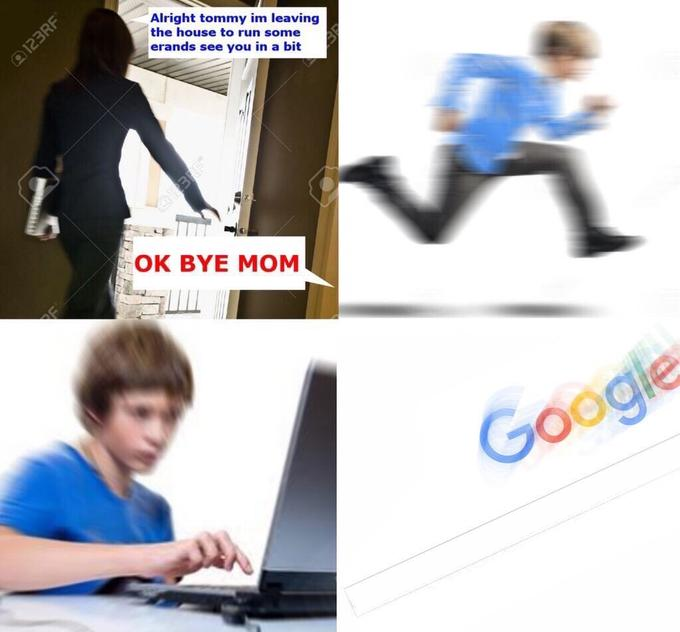
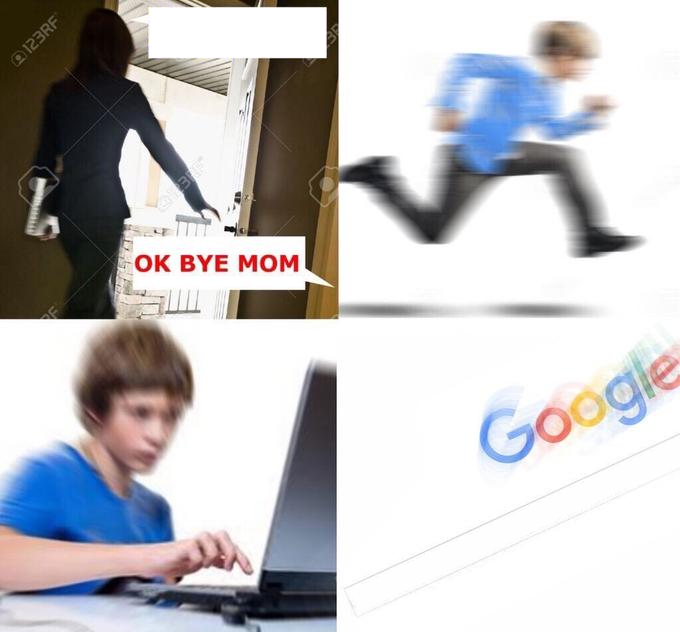
cleanup

Changed region(s): [[0.2162, 0.0, 0.4632, 0.0902]]

diff --git a/assets/byemom.js b/assets/byemom.js
@@ -1,4 +1,4 @@
-const tryParse = require('./utils.js').tryParse
+const { getBuffer, tryParse } = require('./utils.js')
 const Jimp = require('jimp')
 
 exports.run = (URL) => {
@@ -6,29 +6,29 @@ exports.run = (URL) => {
     URL = tryParse(URL)
     if (!URL || URL.length < 2) { return reject(new Error('data-src must be an array of 2 strings')) }
 
+    // const username = 'oof'
     const text = URL[1]
     const avatarPromise = Jimp.read(URL[0])
     const momPromise = Jimp.read('./resources/byemom/mom.png')
     const blankPromise = Jimp.read('./resources/byemom/blank.png')
+    const fontPromise = Jimp.loadFont(Jimp.FONT_SANS_16_BLACK)
+    // const smolFontPromise = Jimp.loadFont(Jimp.FONT_SANS_16_BLACK)
 
-    Promise.all([avatarPromise, momPromise, blankPromise]).then(async (promises) => {
-      let [avatar, mom, blank] = promises
+    Promise.all([avatarPromise, momPromise, blankPromise, fontPromise]).then(async (promises) => {
+      let [avatar, mom, blank, font] = promises
       const avatar2 = avatar.clone()
       avatar.resize(70, 70)
       avatar2.resize(125, 125)
       mom.composite(avatar, 530, 15)
       mom.composite(avatar2, 70, 340)
-
-      let font = await Jimp.loadFont(Jimp.FONT_SANS_16_BLACK)
       blank.resize(275, 200)
-      let search = await blank.print(font, 0, 0, text, 275)
+      // mom.print(smolFont, 150, 8, `Alright ${username} im leaving the house to run some errands see you in a bit`, 175)
+
+      const search = blank.print(font, 0, 0, text, 275)
       search.rotate(335)
 
       mom.composite(search, 390, 460)
-      mom.getBuffer(Jimp.MIME_PNG, async (err, buffer) => {
-        if (err) { return console.error(err.stack) }
-        resolve(buffer)
-      })
+      getBuffer(mom, resolve, reject)
     }).catch(reject)
   })
 }

diff --git a/assets/ohno.js b/assets/ohno.js
@@ -1,30 +1,22 @@
+const { getBuffer } = require('./utils.js')
 const Jimp = require('jimp')
+
 exports.run = (URL) => {
   return new Promise(async (resolve, reject) => {
-    let args = URL
-    let fontSetting
-    if (args.join(' ').length < 38) {
-      fontSetting = Jimp.FONT_SANS_32_BLACK
-    } else {
-      fontSetting = Jimp.FONT_SANS_16_BLACK
-    }
+    const text = URL.join(' ')
+    const fontSetting = text.length < 38 ? Jimp.FONT_SANS_32_BLACK : Jimp.FONT_SANS_16_BLACK
 
-    const text = args
     const momPromise = Jimp.read('./resources/ohno/ohno.png')
     const blankPromise = Jimp.read('./resources/ohno/Empty.png')
+    const fontPromise = Jimp.loadFont(fontSetting)
 
-    Promise.all([momPromise, blankPromise]).then(async (promises) => {
-      const [mom, blank] = promises
+    Promise.all([momPromise, blankPromise, fontPromise]).then(async (promises) => {
+      const [mom, blank, font] = promises
       mom.resize(500, 500)
-      let font = await Jimp.loadFont(fontSetting)
       blank.resize(250, 250)
       const search = blank.print(font, 0, 0, text, 260)
-
       mom.composite(search, 262, 8)
-      mom.getBuffer(Jimp.MIME_PNG, async (err, buffer) => {
-        if (err) { return reject(err.stack) }
-        resolve(buffer)
-      })
+      getBuffer(mom, resolve, reject)
     }).catch(reject)
   })
 }

diff --git a/assets/batslap.js b/assets/batslap.js
@@ -1,4 +1,4 @@
-const tryParse = require('./utils.js').tryParse
+const { getBuffer, tryParse } = require('./utils.js')
 const Jimp = require('jimp')
 
 exports.run = async (URL) => {
@@ -6,25 +6,17 @@ exports.run = async (URL) => {
     URL = tryParse(URL)
     if (!URL || URL.length < 2) { return reject(new Error('data-src must be an array of 2 strings (URLs)')) }
 
-    const [avatar, author] = await Promise.all([
+    const [avatar, author, batman] = await Promise.all([
       Jimp.read(URL[0]),
-      Jimp.read(URL[1])
+      Jimp.read(URL[1]),
+      Jimp.read('./resources/batslap/batman.jpg')
     ]).catch(reject)
-
-    const bat = await Jimp.read('./resources/batslap/batman.jpg').catch(err => {
-      console.error(err.stack)
-    })
 
     avatar.resize(150, 150)
     author.resize(130, 130)
-    bat.resize(670, 400)
-    bat.composite(avatar, 390, 215)
-    bat.composite(author, 240, 75)
-    bat.getBuffer(Jimp.MIME_PNG, async (err, buffer) => {
-      if (err) {
-        return console.error(err.stack)
-      }
-      resolve(buffer)
-    })
+    batman.resize(670, 400)
+    batman.composite(avatar, 390, 215)
+    batman.composite(author, 240, 75)
+    getBuffer(batman, resolve, reject)
   })
 }

diff --git a/assets/search.js b/assets/search.js
@@ -1,22 +1,21 @@
+const { getBuffer } = require('./utils.js')
 const Jimp = require('jimp')
+
 exports.run = (URL) => {
   return new Promise(async (resolve, reject) => {
     const text = URL
     const momPromise = Jimp.read('./resources/search/thesearch.png')
     const blankPromise = Jimp.read('./resources/search/Empty.png')
+    const fontPromise = Jimp.loadFont(Jimp.FONT_SANS_16_BLACK)
 
-    Promise.all([momPromise, blankPromise]).then(async (promises) => {
-      const [mom, blank] = promises
+    Promise.all([momPromise, blankPromise, fontPromise]).then(async (promises) => {
+      const [mom, blank, font] = promises
       blank.resize(275, 200)
-      let font = await Jimp.loadFont(Jimp.FONT_SANS_16_BLACK)
       blank.resize(250, 250)
       const search = blank.print(font, 0, 0, text, 178)
 
       mom.composite(search, 65, 335)
-      mom.getBuffer(Jimp.MIME_PNG, async (err, buffer) => {
-        if (err) { return reject(err.stack) }
-        resolve(buffer)
-      })
+      getBuffer(mom, resolve, reject)
     }).catch(reject)
   })
 }

diff --git a/assets/shit.js b/assets/shit.js
@@ -1,22 +1,21 @@
+const { getBuffer } = require('./utils.js')
 const Jimp = require('jimp')
+
 exports.run = (URL) => {
   return new Promise(async (resolve, reject) => {
     const text = URL
     const momPromise = Jimp.read('./resources/shit/shit.jpg')
     const blankPromise = Jimp.read('./resources/shit/Empty.png')
+    const fontPromise = Jimp.loadFont(Jimp.FONT_SANS_32_BLACK)
 
-    Promise.all([momPromise, blankPromise]).then(async (promises) => {
-      const [mom, blank] = promises
+    Promise.all([momPromise, blankPromise, fontPromise]).then(async (promises) => {
+      const [mom, blank, font] = promises
       blank.resize(350, 350)
-      let font = await Jimp.loadFont(Jimp.FONT_SANS_32_BLACK)
       const search = blank.print(font, 0, 0, text, 178)
       search.rotate(310)
 
       mom.composite(search, 195, 585)
-      mom.getBuffer(Jimp.MIME_PNG, async (err, buffer) => {
-        if (err) { return reject(err.stack) }
-        resolve(buffer)
-      })
+      getBuffer(mom, resolve, reject)
     }).catch(reject)
   })
 }

diff --git a/assets/pride.js b/assets/pride.js
@@ -1,18 +1,17 @@
-const getBuffer = require('./utils.js').getBuffer
+const { getBuffer } = require('./utils.js')
 const Jimp = require('jimp')
 
 exports.run = (URL) => {
   return new Promise(async (resolve, reject) => {
     const avatarPromise = Jimp.read(URL)
-    let brazzPromise = Jimp.read('./resources/pride/gay.png')
+    const brazzPromise = Jimp.read('./resources/pride/gay.png')
 
     Promise.all([avatarPromise, brazzPromise]).then((promises) => {
-      const avatar = promises[0]
-      let brazz = promises[1]
-      brazz.opacity(0.35)
-      brazz.resize(Jimp.AUTO, 350)
+      const [avatar, brazzers] = promises
+      brazzers.opacity(0.35)
+      brazzers.resize(Jimp.AUTO, 350)
       avatar.resize(350, 350)
-      avatar.composite(brazz, 0, 0)
+      avatar.composite(brazzers, 0, 0)
       getBuffer(avatar, resolve, reject)
     }).catch(reject)
   })

diff --git a/assets/spank.js b/assets/spank.js
@@ -6,13 +6,11 @@ exports.run = (URL) => {
     URL = tryParse(URL)
     if (!URL || URL.length < 2) { return reject(new Error('data-src must be an array of 2 strings (URLs)')) }
 
-    const [avatar, author] = await Promise.all([
+    const [avatar, author, spank] = await Promise.all([
       Jimp.read(URL[0]),
-      Jimp.read(URL[1])
+      Jimp.read(URL[1]),
+      Jimp.read('./resources/spank/spank.jpg')
     ]).catch(reject)
-    const spank = await Jimp.read('./resources/spank/spank.jpg').catch(err => {
-      reject(err)
-    })
 
     avatar.resize(120, 120)
     author.resize(140, 140)

diff --git a/assets/tweet.js b/assets/tweet.js
@@ -7,10 +7,10 @@ exports.run = (URL) => {
     const fontPromise = Jimp.loadFont(Jimp.FONT_SANS_64_BLACK)
     const tweetPromise = Jimp.read('./resources/tweet/trump2.jpg')
 
-    Promise.all([font, tweet]).then(promises => {
-        const [font, tweet] = promises;
-        tweet.print(font, 45, 160, text, 1250)
-        getBuffer(tweet, resolve, reject)
+    Promise.all([fontPromise, tweetPromise]).then(promises => {
+      const [font, tweet] = promises
+      tweet.print(font, 45, 160, text, 1250)
+      getBuffer(tweet, resolve, reject)
     }).catch(err => reject(err))
   })
 }

diff --git a/assets/salty.js b/assets/salty.js
@@ -8,9 +8,9 @@ const options = {
 
 exports.run = (dataURL) => {
   return new Promise(async (resolve, reject) => {
-    let base = new Jimp(options.size, options.size)
-    let avatarPromise = Jimp.read(dataURL)
-    let saltPromise = Jimp.read('./resources/salty/salt.png')
+    const base = new Jimp(options.size, options.size)
+    const avatarPromise = Jimp.read(dataURL)
+    const saltPromise = Jimp.read('./resources/salty/salt.png')
 
     Promise.all([avatarPromise, saltPromise]).then((promises) => {
       const [avatar, salt] = promises

diff --git a/assets/hitler.js b/assets/hitler.js
@@ -1,3 +1,4 @@
+const { getBuffer } = require('./utils.js')
 const Jimp = require('jimp')
 
 exports.run = async (URL) => {
@@ -9,12 +10,7 @@ exports.run = async (URL) => {
       const [avatar, banner] = promises
       avatar.resize(140, 140)
       banner.composite(avatar, 46, 43)
-      banner.getBuffer(Jimp.MIME_PNG, async (err, buffer) => {
-        if (err) {
-          return console.error(err.stack)
-        }
-        resolve(buffer)
-      })
+      getBuffer(banner, resolve, reject)
     }).catch(reject)
   })
 }

diff --git a/assets/brazzers.js b/assets/brazzers.js
@@ -1,3 +1,4 @@
+const { getBuffer } = require('./utils.js')
 const Jimp = require('jimp')
 
 exports.run = async (URL) => {
@@ -10,12 +11,7 @@ exports.run = async (URL) => {
       avatar.resize(350, 350)
       banner.resize(Jimp.AUTO, 100)
       avatar.composite(banner, 150, 275)
-      avatar.getBuffer(Jimp.MIME_PNG, async (err, buffer) => {
-        if (err) {
-          return console.error(err.stack)
-        }
-        resolve(buffer)
-      })
+      getBuffer(avatar, resolve, reject)
     }).catch(reject)
   })
 }

diff --git a/assets/egg.js b/assets/egg.js
@@ -1,3 +1,4 @@
+const { getBuffer } = require('./utils.js')
 const Jimp = require('jimp')
 
 exports.run = async (URL) => {
@@ -10,12 +11,7 @@ exports.run = async (URL) => {
       egg.resize(350, 350)
       avatar.resize(Jimp.AUTO, 50)
       egg.composite(avatar, 143, 188)
-      egg.getBuffer(Jimp.MIME_PNG, async (err, buffer) => {
-        if (err) {
-          return console.error(err.stack)
-        }
-        resolve(buffer)
-      })
+      getBuffer(egg, resolve, reject)
     }).catch(reject)
   })
 }
